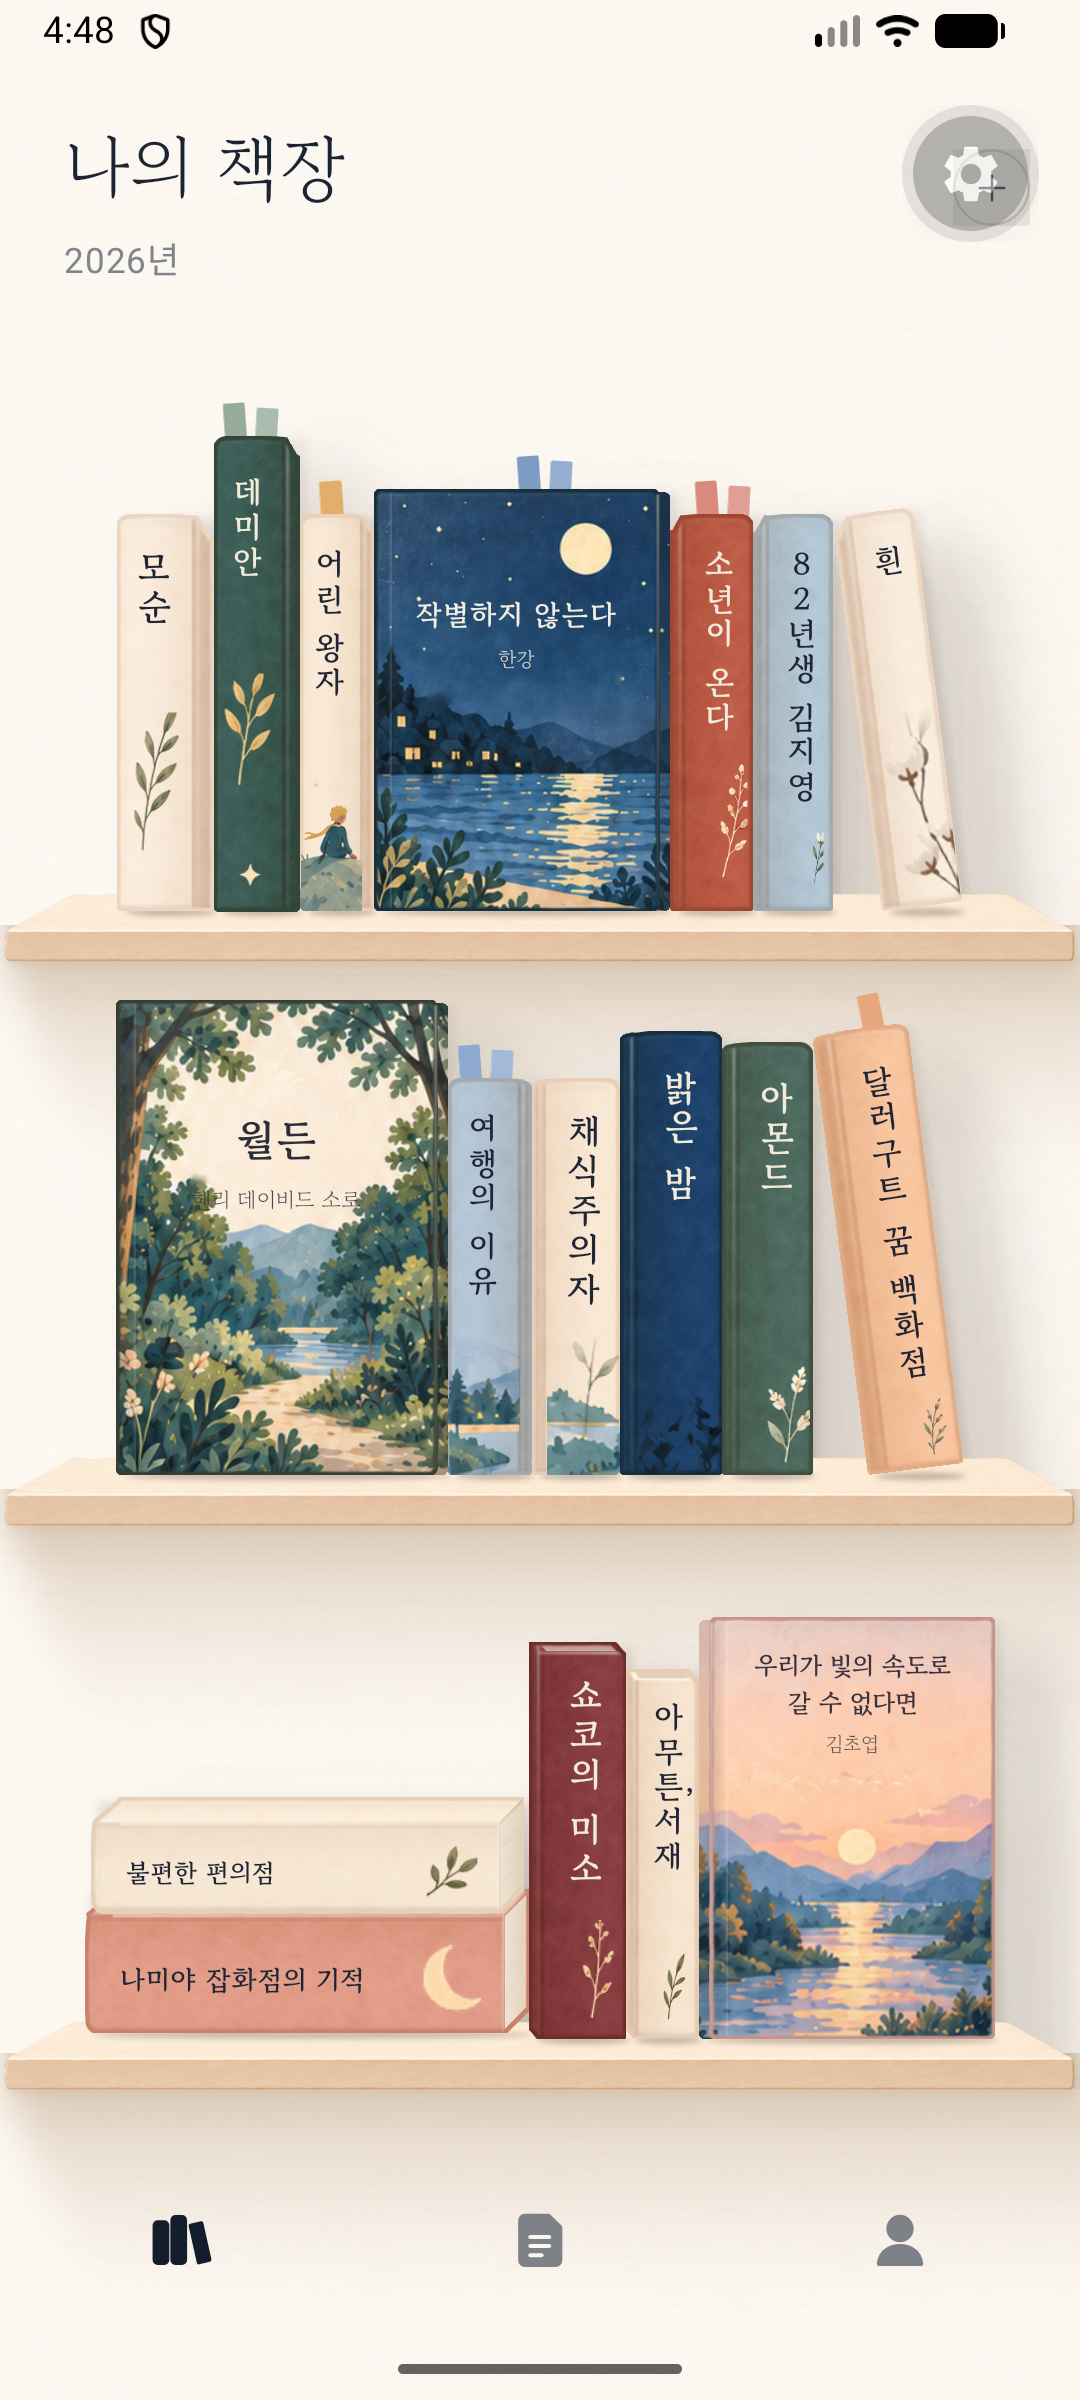
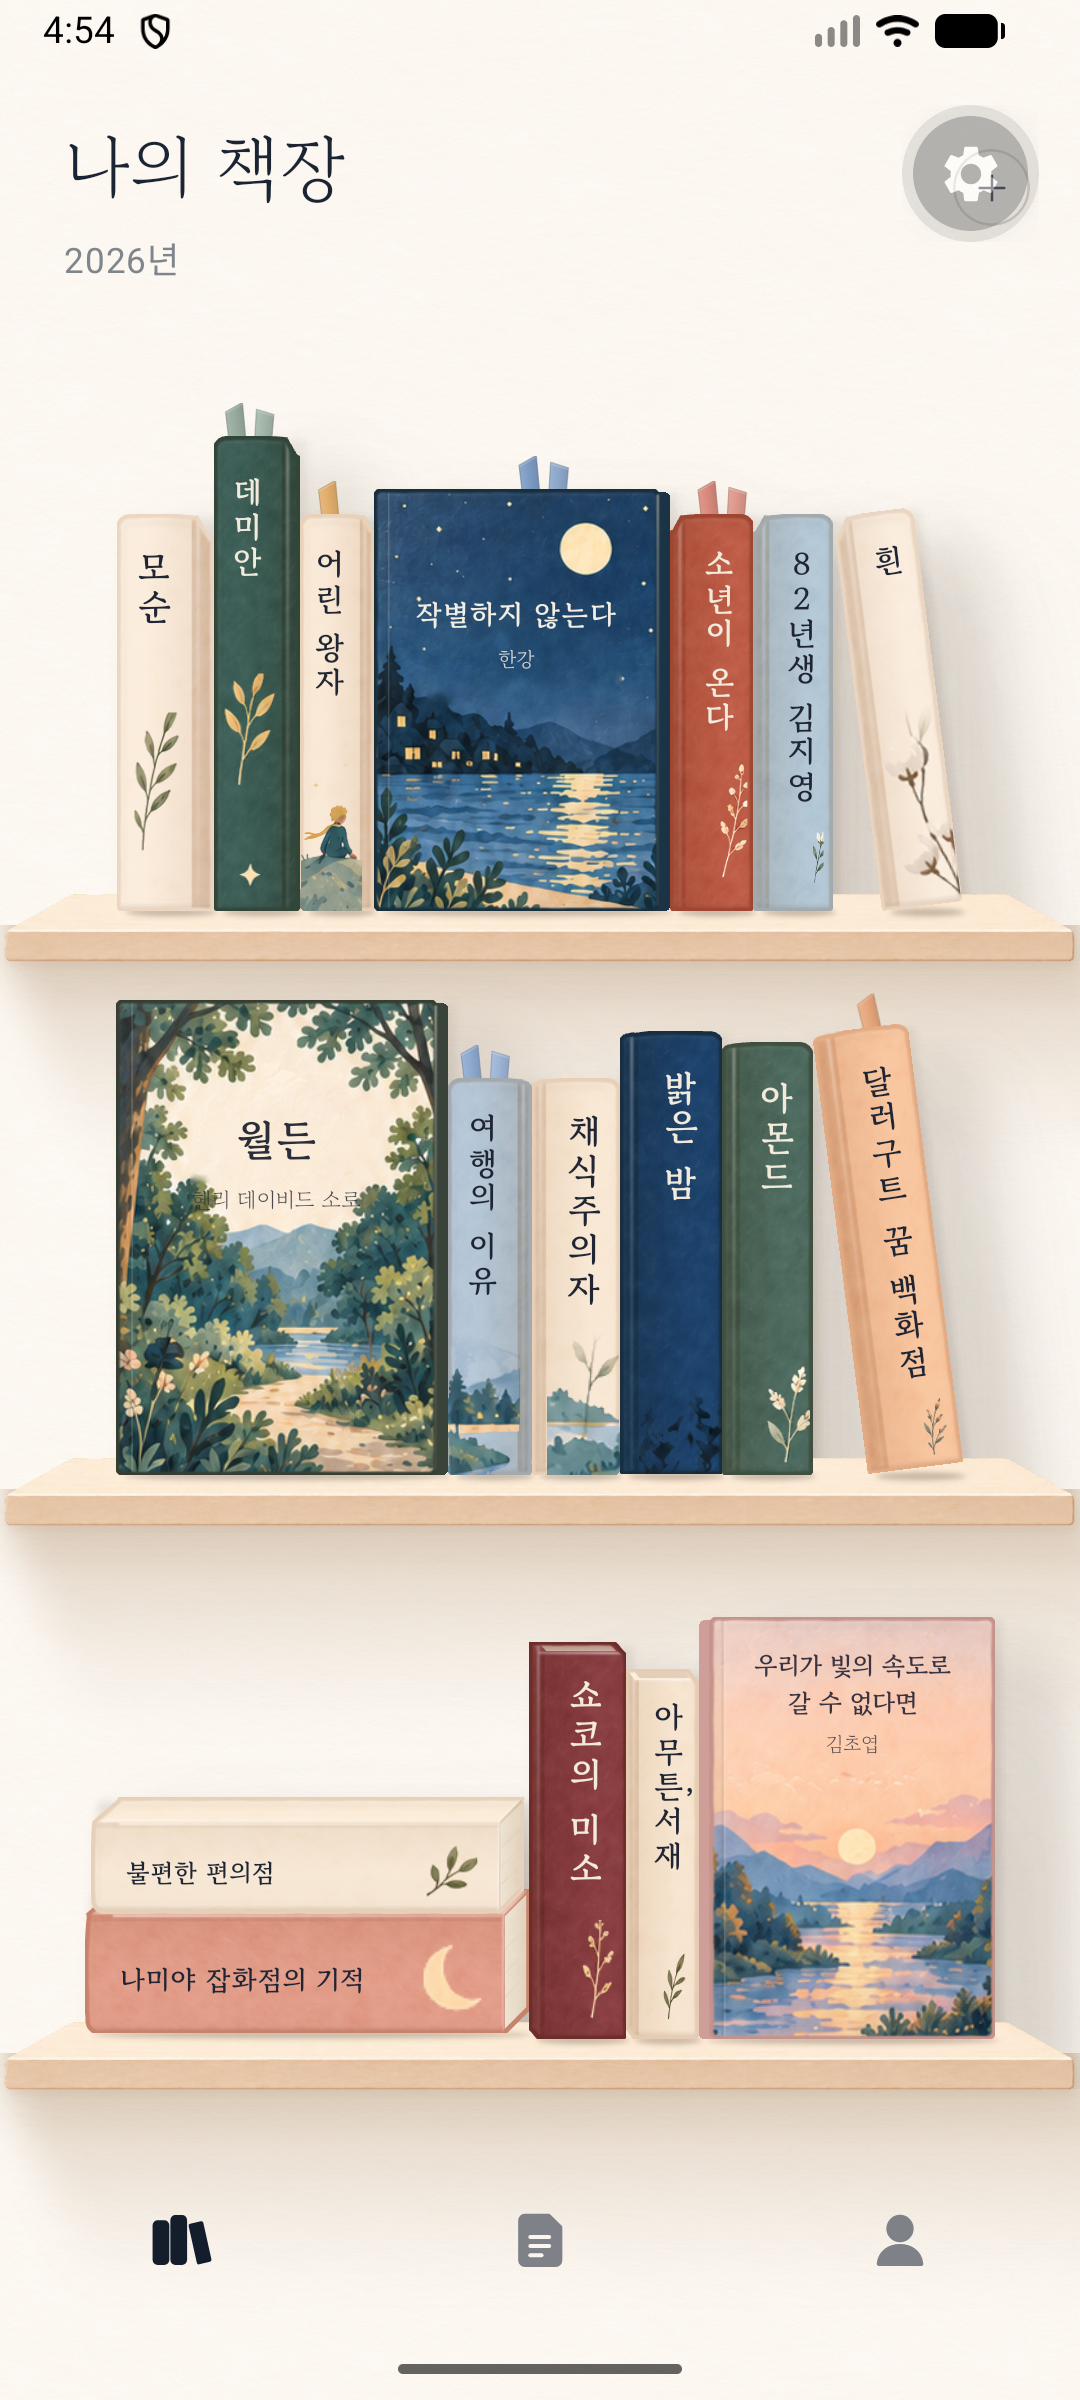
가름끈 비스듬히 잘린 끝·명암, 표지 왼쪽 가장자리 겹선 정리

diff --git a/app/src/ui/book/BookRenderer.tsx b/app/src/ui/book/BookRenderer.tsx
@@ -2,6 +2,7 @@
 // 회전·외부 그림자는 부모(ShelfRow)가 맡는다. 같은 책의 모든 자세는 같은 색·모티프·그림을 공유한다.
 import { memo } from 'react';
 import { StyleSheet, Text, View } from 'react-native';
+import Svg, { Defs, G, LinearGradient as SvgGradient, Polygon, Stop } from 'react-native-svg';
 
 import { inkFor, shade } from '@/domain/color';
 import { bookHeight, bookThickness, FRONT_SIDE, frontWidth, TOP_FACE } from '@/domain/geometry';
@@ -67,37 +68,58 @@ function VerticalText({ columns, fs, color, line = 1.14 }: { columns: string[]; 
 
 // 갈피: 저장된 문장이 있는 책에만. 문장 수만큼(최대 2개) 책 위로 8DU 돌출된 끈. 책 몸체 뒤에 그려 아래쪽은 가려진다.
 export const RIBBON_OUT = 12; // 시안: 갈피가 책 위로 약 13DU
+// 갈피(가름끈): 책 머리 뒤에서 나와 살짝 벌어진 두 가닥. 끝은 비스듬히 잘리고(시안 데미안·작별하지 않는다),
+// 결 방향 명암(왼쪽 밝음)과 가는 같은 색 테두리. 아랫부분은 책 몸체가 가린다.
 function Ribbons({ book, cx, scale: s }: { book: Book; cx: number; scale: number }) {
   const n = Math.min(2, book.quotes ?? 0);
   if (!n) return null;
   const color = book.art.ribbon ?? shade(book.themeColor, 0.25);
-  const w = 8 * s;
-  const gap = 2 * s;
+  const w = 6.8; // DU
+  const gap = 2.4;
+  const hidden = 6; // 몸체 뒤로 숨는 길이
+  const pad = 4; // 기울어져 삐져나갈 여유
   const total = n * w + (n - 1) * gap;
+  const H = RIBBON_OUT + hidden;
+  const W = total + pad * 2;
+  const strands = Array.from({ length: n }, (_, i) => {
+    const x = pad + i * (w + gap);
+    const out = RIBBON_OUT - (i ? 2 : 0); // 두 번째 가닥은 조금 짧다
+    const top = RIBBON_OUT - out;
+    const cut = i ? -2.2 : 2.4; // 끝을 비스듬히: 첫 가닥은 오른쪽이, 둘째는 왼쪽이 낮다
+    const pts = [
+      [x + 0.2, H],
+      [x, top + Math.max(0, cut) + 0.6],
+      [x + w, top + Math.max(0, -cut)],
+      [x + w - 0.2, H],
+    ];
+    const tone = i ? shade(color, 0.12) : color;
+    return { pts, tone, angle: i ? 4 : -6, pivot: [x + w / 2, H] };
+  });
   return (
-    <>
-      {Array.from({ length: n }, (_, i) => (
-        <View
-          key={i}
-          style={{
-            position: 'absolute',
-            left: cx - total / 2 + i * (w + gap),
-            top: -(RIBBON_OUT - (i ? 1.8 : 0)) * s,
-            width: w,
-            height: (RIBBON_OUT + 6) * s,
-            backgroundColor: i ? shade(color, 0.18) : color,
-            overflow: 'hidden',
-            borderTopLeftRadius: 0.8 * s,
-            borderTopRightRadius: 0.8 * s,
-            // 시안처럼 끈이 살짝 벌어져 있다
-            transformOrigin: 'center bottom',
-            transform: [{ rotate: i ? '3deg' : '-4deg' }],
-          }}
-        >
-          <View style={[StyleSheet.absoluteFill, { borderLeftWidth: 0.5 * s, borderLeftColor: 'rgba(255,255,255,0.22)' }]} />
-        </View>
-      ))}
-    </>
+    <View pointerEvents="none" style={{ position: 'absolute', left: cx - (total / 2 + pad) * s, top: -RIBBON_OUT * s, width: W * s, height: H * s }}>
+      <Svg width={W * s} height={H * s} viewBox={`0 0 ${W} ${H}`}>
+        <Defs>
+          {strands.map((st, i) => (
+            <SvgGradient key={i} id={`rb${book.id}${i}`} x1="0" y1="0" x2="1" y2="0">
+              <Stop offset="0" stopColor={shade(st.tone, 0.12)} />
+              <Stop offset="0.45" stopColor={st.tone} />
+              <Stop offset="1" stopColor={shade(st.tone, -0.1)} />
+            </SvgGradient>
+          ))}
+        </Defs>
+        {strands.map((st, i) => (
+          <G key={i} rotation={st.angle} origin={`${st.pivot[0]}, ${st.pivot[1]}`}>
+            <Polygon points={st.pts.map((p) => p.join(',')).join(' ')} fill={`url(#rb${book.id}${i})`} stroke={shade(st.tone, -0.25)} strokeWidth={0.45} strokeOpacity={0.55} strokeLinejoin="round" />
+            {/* 잘린 끝 바로 아래의 옅은 빛 */}
+            <Polygon
+              points={[st.pts[1], st.pts[2], [st.pts[2][0], st.pts[2][1] + 0.9], [st.pts[1][0], st.pts[1][1] + 0.9]].map((p) => p.join(',')).join(' ')}
+              fill="#FFFFFF"
+              opacity={0.18}
+            />
+          </G>
+        ))}
+      </Svg>
+    </View>
   );
 }
 

diff --git a/app/src/ui/book/BookBody.tsx b/app/src/ui/book/BookBody.tsx
@@ -586,10 +586,8 @@ export const CoverBody = memo(function CoverBody({
     <Canvas style={{ width: fw + side, height: h }}>
       {/* 옆면: 종이 단면 대신 책 색의 얇은 판(시안: 표지 책 옆으로 페이지가 보이지 않는다). 빛 반대쪽이라 한 톤 어둡다 */}
       <Group clip={Skia.RRectXY(Skia.XYWHRect(mirror ? 0 : fw - 3 * s, 1.2 * s, side + 3 * s, h - 1.2 * s), 2 * s, 2 * s)}>
-        <Rect x={mirror ? 0 : fw - 3 * s} y={0} width={side + 3 * s} height={h} color={tone} />
-        {/* 표지 그림이 옆면까지 감싸 이어진다(그림 끝부분이 비친다) */}
-        {image ? <SkImage image={image} x={mirror ? 0 : side} y={0} width={fw} height={h} fit="cover" /> : null}
-        <Rect x={mirror ? 0 : fw - 3 * s} y={0} width={side + 3 * s} height={h} color={mirror ? 'rgba(40,30,20,0.12)' : 'rgba(40,30,20,0.24)'} />
+        {/* 표지 가장자리 색의 판(그림을 다시 비추면 표지가 이중으로 보인다). 왼쪽 옆면은 빛을 받아 덜 어둡다 */}
+        <Rect x={mirror ? 0 : fw - 3 * s} y={0} width={side + 3 * s} height={h} color={scaleColor(tone, mirror ? 0.9 : 0.78)} />
       </Group>
       <Group transform={[{ translateX: mirror ? side : 0 }]}>
       <Group clip={outline}>
@@ -598,10 +596,14 @@ export const CoverBody = memo(function CoverBody({
         {!image && motif ? <SkImage image={motif} x={fw / 2 - mw / 2} y={h * 0.9 - mh} width={mw} height={mh} fit="contain" /> : null}
         <Grain w={fw} h={h} s={s} image={grain} />
         {/* 제본 쪽(왼쪽) 살짝 어둡게, 왼쪽 위에서 오는 빛 */}
-        <Rect x={0} y={0} width={fw * 0.06} height={h}>
-          <LinearGradient start={vec(0, 0)} end={vec(fw * 0.06, 0)} colors={['rgba(0,0,0,0.14)', 'rgba(0,0,0,0)']} />
+        {/* 제본선(시안: 왼쪽에서 조금 안쪽의 가는 홈 하나) */}
+        <Rect x={0} y={0} width={fw * 0.05} height={h}>
+          <LinearGradient start={vec(0, 0)} end={vec(fw * 0.05, 0)} colors={['rgba(0,0,0,0.07)', 'rgba(0,0,0,0)']} />
         </Rect>
-        <Rect x={fw * 0.055} y={0} width={0.8 * s} height={h} color="rgba(255,255,255,0.12)" />
+        <Rect x={fw * 0.04} y={0} width={0.7 * s} height={h} color="rgba(40,30,20,0.16)">
+          <BlurMask blur={0.35 * s} style="normal" />
+        </Rect>
+        <Rect x={fw * 0.04 + 0.9 * s} y={0} width={0.6 * s} height={h} color="rgba(255,255,255,0.14)" />
         <Rect x={0} y={0} width={fw} height={h}>
           <LinearGradient start={vec(0, 0)} end={vec(fw, h)} colors={['rgba(255,255,255,0.08)', 'rgba(255,255,255,0)', 'rgba(0,0,0,0.08)']} positions={[0, 0.45, 1]} />
         </Rect>
@@ -610,11 +612,13 @@ export const CoverBody = memo(function CoverBody({
       </Group>
       <Path path={outline} style="stroke" strokeWidth={0.9 * s} color={scaleColor(tone, edgeFactor(tone))} antiAlias />
       </Group>
-      {/* 앞표지와 옆면이 만나는 모서리의 빛 반사(위가 밝고 아래로 사라진다) */}
-      <Rect x={mirror ? side : fw - 0.9 * s} y={2 * s} width={0.9 * s} height={h - 4 * s}>
+      {/* 앞표지와 옆면이 만나는 모서리의 빛 반사(위가 밝고 아래로 사라진다). 왼쪽 옆면일 때는 테두리와 겹쳐 선이 여러 겹이 되므로 뺀다 */}
+      {mirror ? null : (
+      <Rect x={fw - 0.9 * s} y={2 * s} width={0.9 * s} height={h - 4 * s}>
         <LinearGradient start={vec(0, 2 * s)} end={vec(0, h - 2 * s)} colors={GLINT} positions={GLINT_AT} />
         <BlurMask blur={0.3 * s} style="normal" />
       </Rect>
+      )}
     </Canvas>
   );
 });
